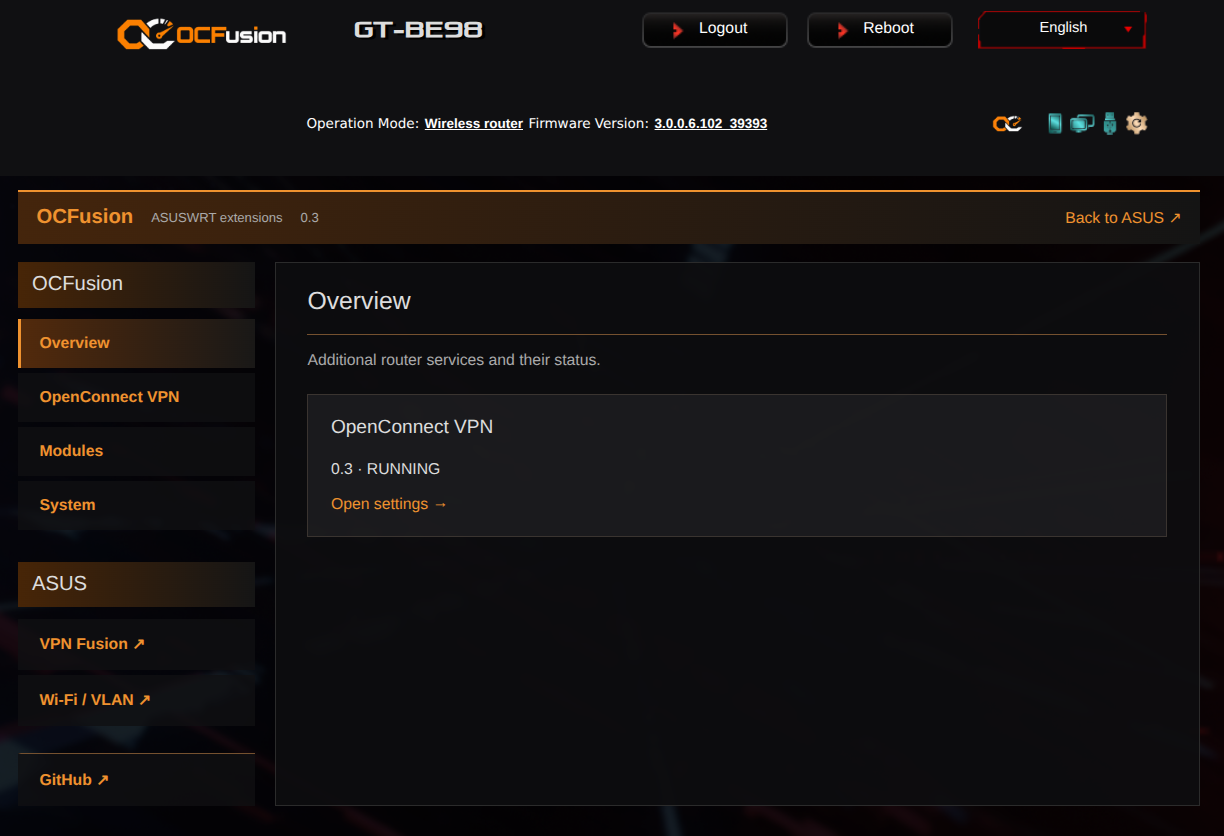
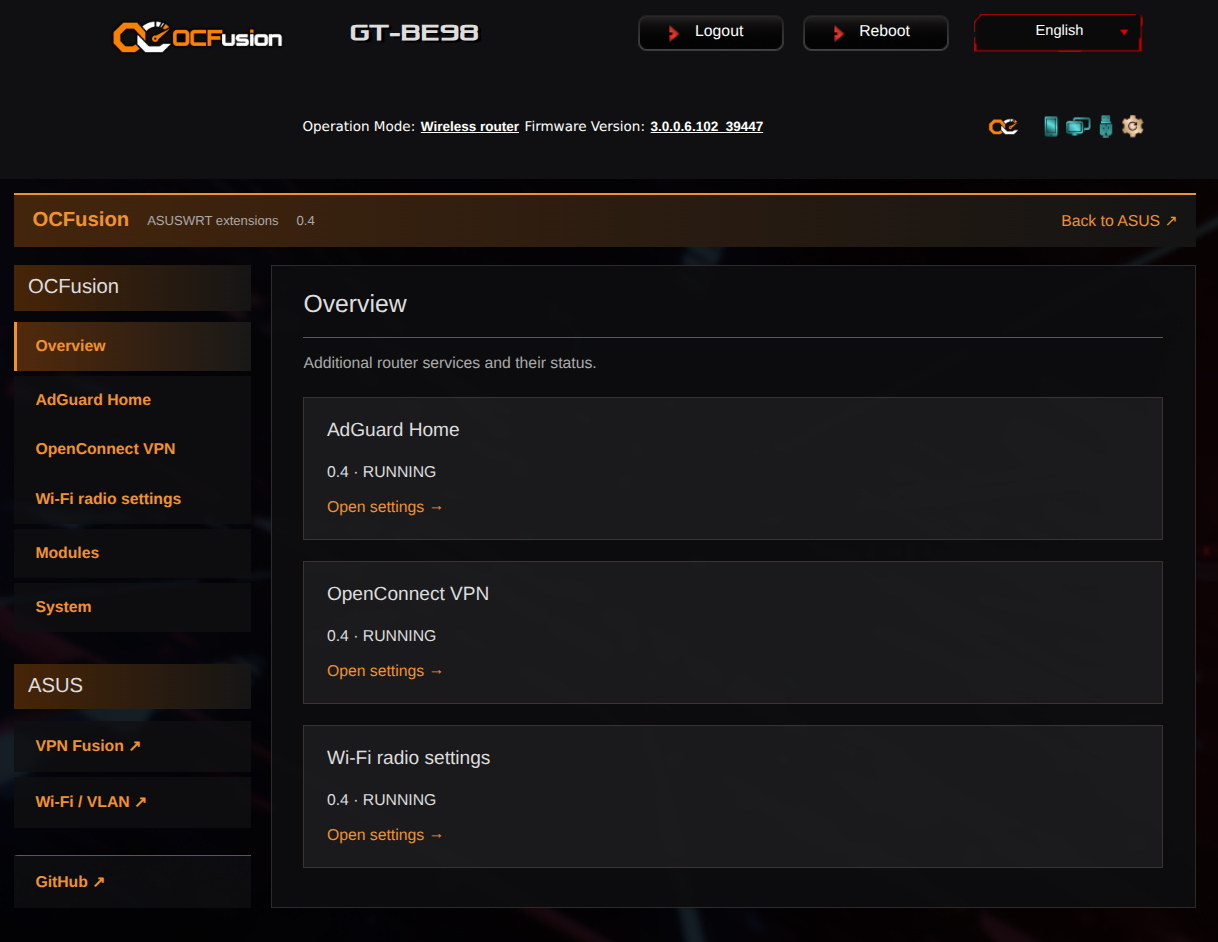
Update README screenshots for OCFusion 0.4

diff --git a/README.md b/README.md
@@ -106,9 +106,17 @@ interrupts the VPN connection.
 
 <img src="docs/screenshots/openconnect.png" alt="OpenConnect profiles and connection status" width="900">
 
-### VPN settings
+### AdGuard Home
 
-<img src="docs/screenshots/settings.png" alt="OpenConnect connection settings" width="900">
+<img src="docs/screenshots/adguard-home.png" alt="AdGuard Home protection and DNS statistics" width="900">
+
+### Wi-Fi radio settings
+
+<img src="docs/screenshots/radio-settings.png" alt="Wi-Fi region selection and original settings restoration" width="900">
+
+<img src="docs/screenshots/radio-state.png" alt="Live radio state and available channels" width="900">
+
+<img src="docs/screenshots/radio-regions.png" alt="Reference comparison of Wi-Fi channels by region" width="900">
 
 ## Additional modules
 
